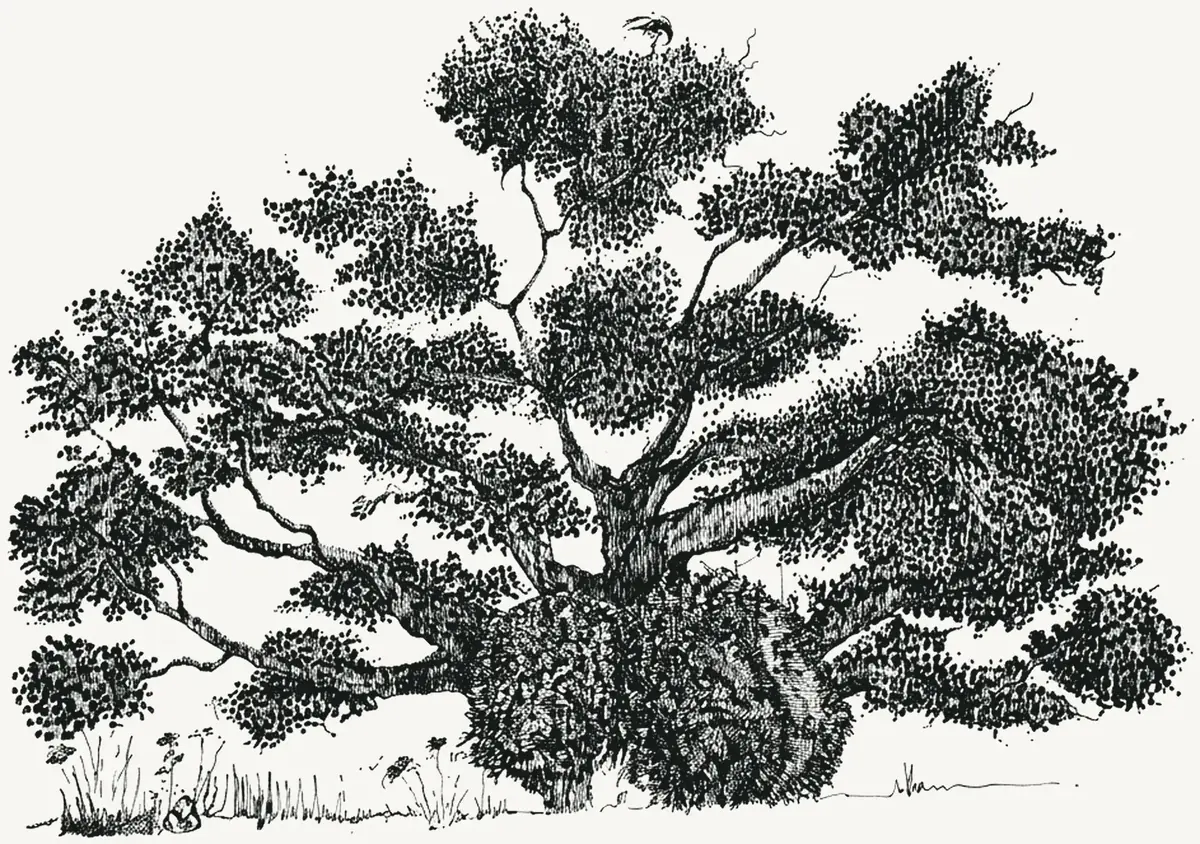
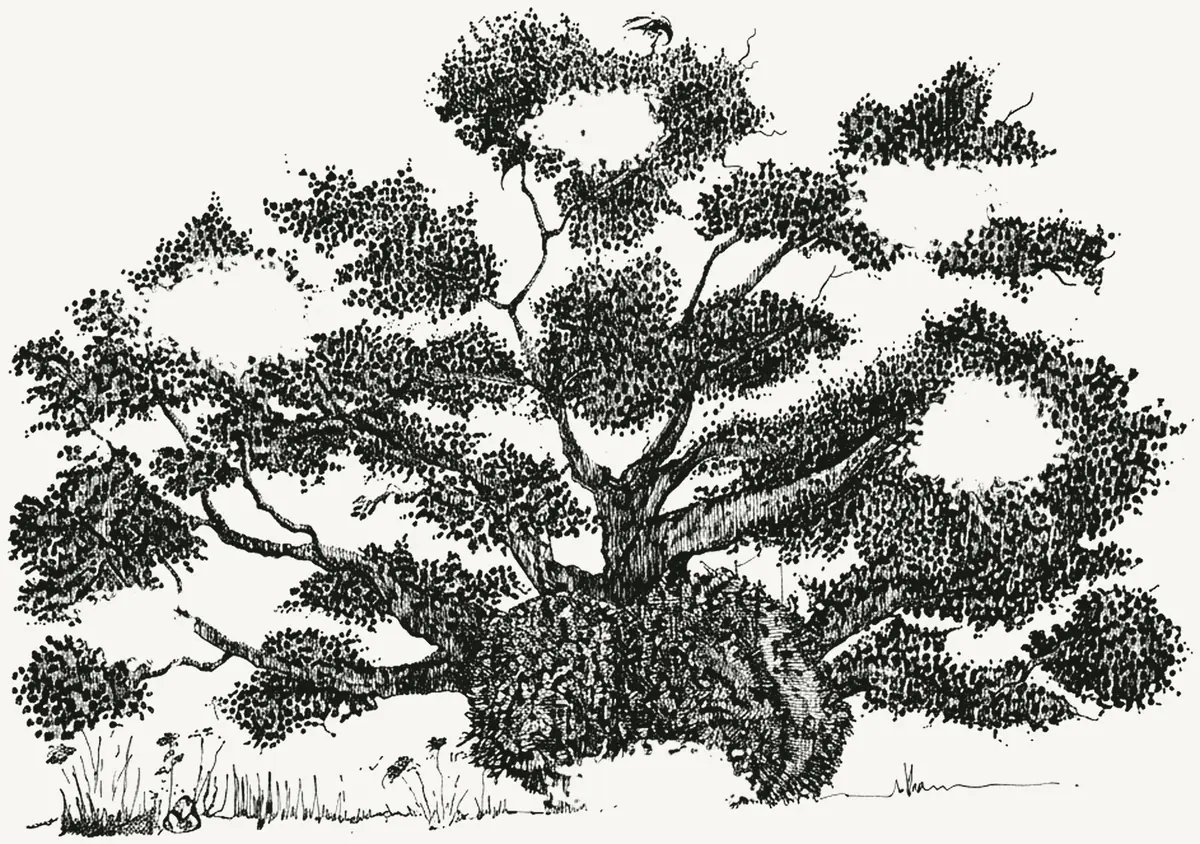
Test site 6: each section name sits in a clearing cut into its canopy, popping forward on hover
Claude-Session: https://claude.ai/code/session_01JqfHn1vMZiL4kde3dFjawN

diff --git a/test6/index.html b/test6/index.html
@@ -59,19 +59,17 @@ p{margin:0}
 body.zoomed .intro{opacity:0;transform:translateY(-16px);pointer-events:none}
 
 .tree{position:absolute;transform-origin:0 0;transition:transform .7s cubic-bezier(.6,0,.2,1);backface-visibility:hidden}
-.tree{isolation:isolate}
-.tree img{position:relative;z-index:2;display:block;width:100%;height:100%;mix-blend-mode:var(--tree-blend);filter:var(--tree-filter);user-select:none;-webkit-user-drag:none;pointer-events:none}
+.tree img{display:block;width:100%;height:100%;filter:var(--tree-filter);user-select:none;-webkit-user-drag:none;pointer-events:none}
 @media (prefers-reduced-motion:reduce){.tree,.intro,.panel,.spot{transition:none!important}}
 
-.spot{position:absolute;z-index:1;--tx:-50%;--s:1;transform:translate(var(--tx),-50%) scale(var(--s));display:flex;align-items:center;gap:8px;padding:7px 11px;background:transparent;color:var(--ink);border:0;font:500 .8rem var(--mono);letter-spacing:.14em;text-transform:uppercase;white-space:nowrap;cursor:pointer;transition:opacity .4s,transform .35s cubic-bezier(.2,.8,.2,1.2),background .2s,color .2s,box-shadow .3s}
-.spot::before{content:"";width:8px;height:8px;border-radius:50%;background:var(--mark);flex:none}
-.spot span::before{content:"[ "}.spot span::after{content:" ]"}
-.spot small{font:inherit;color:var(--mark-text)}
-.spot.peek,.spot:hover,.spot:focus-visible{z-index:3;--s:1.12;background:var(--ink);color:var(--paper);outline:none;box-shadow:0 10px 30px rgba(0,0,0,.25)}
+.spot{position:absolute;z-index:3;--s:1;transform:translate(-50%,-50%) scale(var(--s));display:flex;flex-direction:column;align-items:center;gap:2px;padding:6px 10px;border:0;border-radius:2px;background:transparent;color:var(--ink);font:500 clamp(.78rem,1.05vw,1rem)/1.12 var(--display);letter-spacing:-.01em;text-align:center;white-space:nowrap;cursor:pointer;transition:opacity .4s,transform .35s cubic-bezier(.2,.8,.2,1.25),background .2s,color .2s,box-shadow .3s}
+.spot::before{content:none}
+
+.spot small{font:500 .6rem var(--mono);letter-spacing:.14em;text-transform:uppercase;color:var(--mark-text)}
+.spot.peek,.spot:hover,.spot:focus-visible{z-index:4;--s:1.22;background:var(--ink);color:var(--paper);outline:none;box-shadow:0 10px 30px rgba(0,0,0,.25)}
 .spot.peek small,.spot:hover small,.spot:focus-visible small{color:var(--mark)}
-@media (hover:none){.spot{z-index:3;background:rgba(247,246,242,.72)}}
-@media (hover:none) and (prefers-color-scheme:dark){.spot{background:rgba(15,16,20,.72)}}
-.spot.r{--tx:-100%}.spot.l{--tx:0%}
+@media (max-width:820px){.spot{font-size:.7rem;padding:3px 6px;background:color-mix(in srgb,var(--paper) 82%,transparent);letter-spacing:0}.spot small{font-size:.5rem}}
+
 body.zoomed .spot{opacity:0;pointer-events:none}
 
 /* panel */
@@ -163,12 +161,12 @@ body.zoomed .panel{transform:none}
 
   <div class="tree" id="tree" aria-label="Site map drawn as a tree">
     <img src="tree-800.jpg" srcset="tree-800.webp 800w, tree-900.webp 900w, tree-1200.webp 1200w, tree-1886.webp 1886w" sizes="(max-width:820px) 92vw, 64vw" decoding="async" fetchpriority="high" alt="Pen-and-ink drawing of a wide old tree by Dr. Partha Pratim Das" width="1886" height="1326">
-    <button class="spot" data-go="programmes" style="left:17%;top:31%"><span>Programmes and people</span></button>
-    <button class="spot" data-go="presence" style="left:84%;top:46%"><span>How you show up</span></button>
-    <button class="spot" data-go="work" style="left:44%;top:21%"><span>Our work</span></button>
-    <button class="spot" data-go="exhibitions" style="left:83%;top:23%"><span>Exhibitions</span><small>· growing</small></button>
-    <button class="spot" data-go="people" style="left:14%;top:78%"><span>People</span></button>
-    <button class="spot" data-go="roots" style="left:62%;top:95%"><span>Roots and contact</span></button>
+    <button class="spot" data-go="programmes" style="left:19%;top:37%"><span>Programmes<br>and people</span></button>
+    <button class="spot" data-go="presence" style="left:82%;top:52%"><span>How you<br>show up</span></button>
+    <button class="spot" data-go="work" style="left:50%;top:15%"><span>Our work</span></button>
+    <button class="spot" data-go="exhibitions" style="left:77%;top:24%"><span>Exhibitions</span><small>growing</small></button>
+    <button class="spot" data-go="people" style="left:11%;top:74%"><span>People</span></button>
+    <button class="spot" data-go="roots" style="left:55%;top:93%"><span>Roots and<br>contact</span></button>
   </div>
 </main>
 
@@ -271,7 +269,7 @@ body.zoomed .panel{transform:none}
     else{w=Math.min(W*0.64,(H-70)*AR);h=w/AR;L=W-w-Math.max(18,W*0.02);T=Math.max(70,(H-h)*0.62);}
     tree.style.width=w+'px';tree.style.height=h+'px';tree.style.left=L+'px';tree.style.top=T+'px';
     // keep labels on screen
-    for(var k in spots){var s=spots[k],x=parseFloat(s.style.left)/100*w+L;s.classList.toggle('r',x>W-90);s.classList.toggle('l',x<90)}
+    
     zoom(false);
   }
   function zoom(animate){
